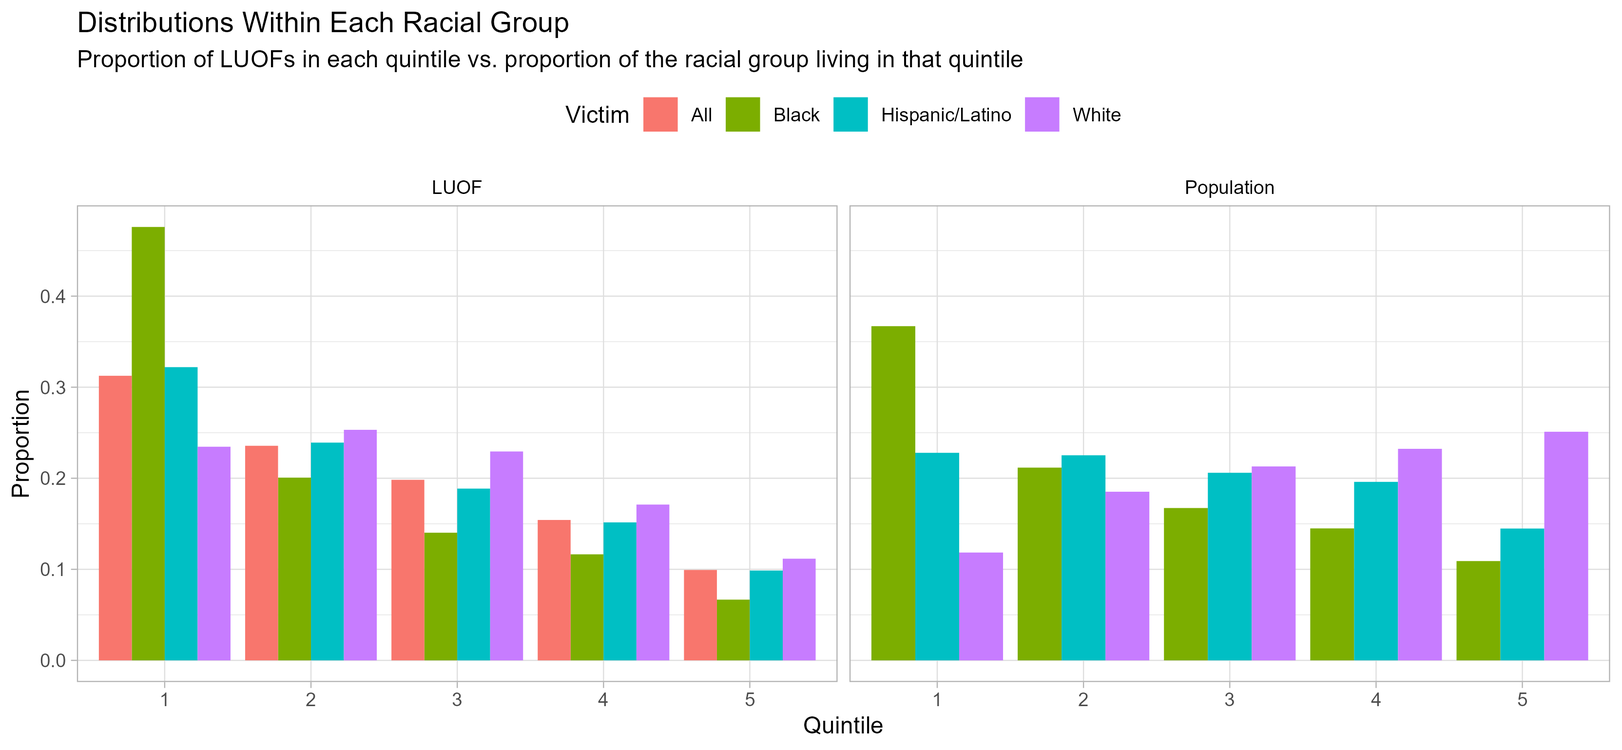
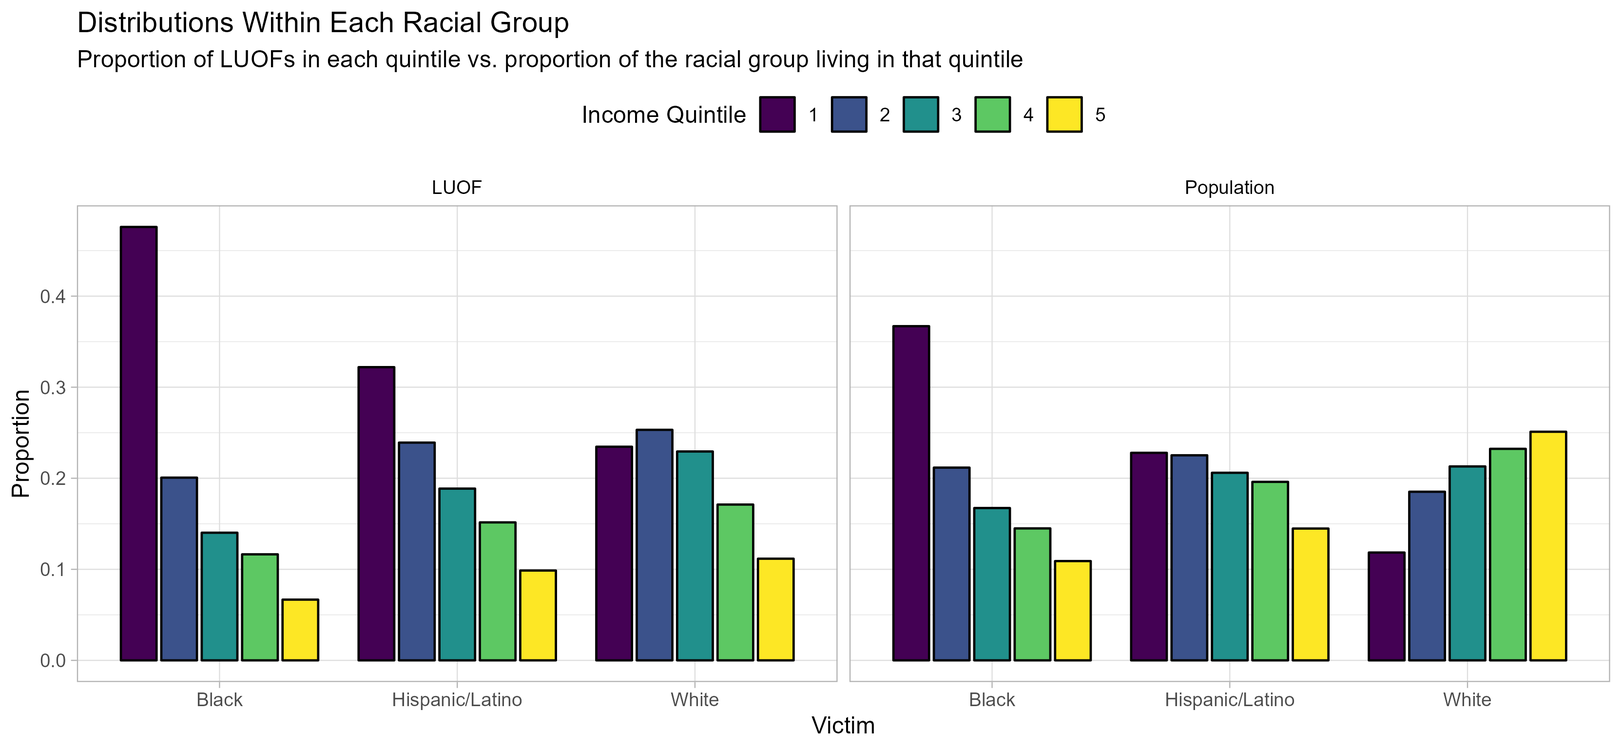
Changed color and swapped x-axis/legend of victim race/quintile interaction plot.

diff --git a/ps_honors_thesis_abbreviated.tex b/ps_honors_thesis_abbreviated.tex
@@ -139,7 +139,7 @@ This study examines the relationship between race, class, and police use of leth
 \end{abstract}
 
 \clearpage
-\setstretch{1.25}
+\setstretch{1.5}
 % Add table of contents
 \hypertarget{toc}{}
 \tableofcontents
@@ -177,7 +177,7 @@ This study examines the relationship between race, class, and police use of leth
 
 \section{INTRODUCTION}
 
-On August 8, 2015, US senator and Democratic presidential candidate Bernie Sanders spoke at ``Social Security Works", an event that commemorated the 50\textsuperscript{th} and 80\textsuperscript{th} anniversary of the enactment of Social Security and Medicare, respectively (\cite{wilsonProtestersShutBernie2015}). But before Senator Sanders could speak, several Black Lives Matter activists interrupted because they felt Sanders was inadequately responding to issues of racial justice, particularly as it pertains to the killings of black Americans by law enforcement. One activist, Marissa Johnson, in an MSNBC interview, elaborated that the interruption aimed to “put pressure on people who claim that they care about black lives” (\cite{hallBernieSandersBlack2015}). Specifically, regarding Sanders, she averred: “If you look at Bernie Sanders’s platform, you look at what he said on racial equality, he’s basically a class reductionist. He’s never really had a strong analysis that there is racism and white supremacy that is separate than [\textit{sic}] the economic things that everyone experiences. So, we want to continue to push him on that” (\cite{hallBernieSandersBlack2015}). The issue for Johnson and the other activists who stormed the stage that day was that, while Sanders had a fairly expansive economic justice platform, those policies were an inadequate response to issues of racism and white supremacy. Hence, from this perspective, his politics were class reductionist.
+On August 8, 2015, US senator and Democratic presidential candidate Bernie Sanders spoke at "Social Security Works", an event that commemorated the 50\textsuperscript{th} and 80\textsuperscript{th} anniversary of the enactment of Social Security and Medicare, respectively (\cite{wilsonProtestersShutBernie2015}). But before Senator Sanders could speak, several Black Lives Matter activists interrupted because they felt Sanders was inadequately responding to issues of racial justice, particularly as it pertains to the killings of black Americans by law enforcement. One activist, Marissa Johnson, in an MSNBC interview, elaborated that the interruption aimed to “put pressure on people who claim that they care about black lives” (\cite{hallBernieSandersBlack2015}). Specifically, regarding Sanders, she averred: “If you look at Bernie Sanders’s platform, you look at what he said on racial equality, he’s basically a class reductionist. He’s never really had a strong analysis that there is racism and white supremacy that is separate than [\textit{sic}] the economic things that everyone experiences. So, we want to continue to push him on that” (\cite{hallBernieSandersBlack2015}). The issue for Johnson and the other activists who stormed the stage that day was that, while Sanders had a fairly expansive economic justice platform, those policies were an inadequate response to issues of racism and white supremacy. Hence, from this perspective, his politics were class reductionist.
 
 Earlier that year, in an interview with CNN’s Wolf Blitzer, Senator Sanders was asked about his thoughts on the unrest in Baltimore after the murder of Freddie Gray by law enforcement. Sanders emphasized that “too many mostly black suspects have been treated terribly and, in some cases, murdered,” and that “police officers have got to be held accountable for their actions,” but also that economic factors were related to the killing of Freddie Gray:
 
@@ -284,7 +284,9 @@ A list of lethal uses of force was downloaded from the Fatal Encounters website.
 
 \subsection{Rates by Race and Ethnicity}
 
-As is well understood, majority-black and Latino neighborhoods experience higher rates of LUOF than majority-white neighborhoods. Data collected for this study confirm this. Indeed, majority-black neighborhoods experience a rate nearly twice that of majority-white neighborhoods. Majority-Hispanic/Latino neighborhoods experience a rate 1.75 times greater.
+As is well understood, majority-black and Latino neighborhoods experience higher rates of LUOF than majority-white neighborhoods. Data collected for this study confirm this. Indeed, majority-black neighborhoods experience a rate nearly twice that of majority-white neighborhoods. Majority-Hispanic/Latino neighborhoods experience a rate 1.75 times greater than majority-white neighborhoods (\autoref{fig:race_ethnicity}).
+
+One possible explanation for the racial disparities is that blacks and Latinos are policed heavily, regardless of how well-off the tract is. A good amount of literature would seem to support this. Many studies have found discriminatory practices within police departments, and there have been many documented incidents of black professionals being harassed by law enforcement, often for rather arbitrary violations. From that perspective, discriminatory practices may largely account for the racial disparities that affect black Americans regardless of their class position. 
 
 \begin{figure}[H]
   \centering % width=\linewidth, height=0.4\textheight
@@ -294,9 +296,7 @@ As is well understood, majority-black and Latino neighborhoods experience higher
   \label{fig:race_ethnicity}
 \end{figure}
 
-\noindent{}than majority-white neighborhoods (\autoref{fig:race_ethnicity}).
-
-One possible explanation for the racial disparities is that blacks and Latinos are policed heavily, regardless of how well-off the tract is. A good amount of literature would seem to support this. Many studies have found discriminatory practices within police departments, and there have been many documented incidents of black professionals being harassed by law enforcement, often for rather arbitrary violations. From that perspective, discriminatory practices may largely account for the racial disparities that affect black Americans regardless of their class position. Another possible explanation for these racial disproportions is that blacks and Latinos also disproportionately live in lower-income neighborhoods that are more heavily policed, for reasons discussed earlier. From this perspective, the racial disparities may largely be a function of class position and the way poor and working-class neighborhoods are policed. Of course, these explanations are not mutually exclusive; racial discrimination probably does play some part in generating these racial disparities, while the way the poor are policed could also contribute to the incidence of LUOF. However, it is worth examining the variation within majority one-race census tracts by household income quintiles to see how much of the disparity disappears once household income is introduced into the analysis.
+Another possible explanation for these racial disproportions is that blacks and Latinos also disproportionately live in lower-income neighborhoods that are more heavily policed, for reasons discussed earlier. From this perspective, the racial disparities may largely be a function of class position and the way poor and working-class neighborhoods are policed. Of course, these explanations are not mutually exclusive; racial discrimination probably does play some part in generating these racial disparities, while the way the poor are policed could also contribute to the incidence of LUOF. However, it is worth examining the variation within majority one-race census tracts by household income quintiles to see how much of the disparity disappears once household income is introduced into the analysis.
 
 \subsection{Median Household Income}
 
@@ -312,7 +312,10 @@ The American Community Survey (ACS) provides median household income values for 
 
 \subsection{Majority One Race}
 
-What, then, does the analysis look like when both race and income are introduced as variables? An initial look at the bar plots by majority-one-race in a census tract and income quintiles offers some useful insights. The plots from earlier are provided again, this time side-by-side on the same scale for easier cross-comparisons. Without looking at their interactions, we can see that the fourth and fifth-quintile census tracts experience a lower rate of LUOFs than any of the racial or ethnic groups. At the same time, both majority-black and majority-Latino census tracts experienced higher rates than all income quintiles except the first or lowest income quintile.
+What, then, does the analysis look like when both race and income are introduced as
+\noindent{}variables? An initial look at the bar plots by majority-one-race in a census tract and income quintiles offers some useful insights. The plots from earlier are provided again, this time side-by-side on the same scale for easier cross-comparisons. Without looking at their interactions, we can see that the fourth and fifth-quintile census tracts experience a lower rate of LUOFs than any of the racial or ethnic groups. At the same time, both majority-black and majority-Latino census tracts experienced higher rates than all income quintiles except the first or lowest income quintile.
+
+However, this analysis is inadequate because it does not tell us about the interactions between the variables. In analyzing their interactions, one finds that the general trend of the lowest-income quintiles experiencing the highest rates of LUOFs holds. A bar plot (\autoref{fig:majority_income_interactions}) showing the variation within the racial and ethnic groups indicates that there is substantial variation by income quintile within the racial and ethnic groups. For all racial and ethnic groups, the lowest income quintile had the highest LUOF rate. The difference in the rate between the first and second quintile is substantial for the majority black and Latino census tracts. Majority Hispanic/Latino tracts had the highest rate in the second and third income quintiles. As noted earlier, both the majority-white, and majority-black census tracts experienced the lowest rates of police LUOF in the highest income quintiles.
 
 \begin{figure}[H]
   \centering % width=\linewidth, height=0.4\textheight
@@ -321,8 +324,6 @@ What, then, does the analysis look like when both race and income are introduced
   \caption[Income and Race]{Income and Race}
   \label{fig:combined}
 \end{figure}
-
-However, this analysis is inadequate because it does not tell us about the interactions between the variables. In analyzing their interactions, one finds that the general trend of the lowest-income quintiles experiencing the highest rates of LUOFs holds. A bar plot (\autoref{fig:majority_income_interactions}) showing the variation within the racial and ethnic groups indicates that there is substantial variation by income quintile within the racial and ethnic groups. For all racial and ethnic groups, the lowest income quintile had the highest LUOF rate. The difference in the rate between the first and second quintile is substantial for the majority black and Latino census tracts. Majority Hispanic/Latino tracts had the highest rate in the second and third income quintiles. As noted earlier, both the majority-white, and majority-black census tracts experienced the lowest rates of police LUOF in the highest income quintiles.
 
 \begin{figure}[H]
   \centering % width=\linewidth, height=0.4\textheight
@@ -343,14 +344,6 @@ Because categorizing tracts into majority-one-race tracts sets an arbitrary thre
 
 The regression results show a negative relationship between income and the probability that a tract experienced at least one LUOF during the period (\autoref{tab:income_logit}). A plot of the predicted probabilities indicates a strong curvilinear relationship, with the probability being most pronounced in tracts with incomes of \$50 thousand or less, and the curve flattens somewhat around \$200 thousand. Exponentiating the coefficient results in 0.8758 ($e^{-0.13265}$~=~0.8758), meaning that for every ten thousand dollars in median household income, the odds of a census tract experiencing at least one LUOF declines by 12.42 percent (1~--~0.8758~=~0.1242).
 
-\begin{figure}[H]
-  \centering % width=\linewidth, height=\textheight
-  \includegraphics[width=\linewidth]{images/LUOF_logit_income_only}
-  \captionsetup{justification=centering, singlelinecheck=false, margin=2cm}
-  \caption[Predicted Probability of a LUOF (Income Only)]{Predicted Probability of a LUOF (Income Only).}
-  \label{fig:logit_income_plot}
-\end{figure}
-
 \begin{table}[ht]
 \centering
 \begin{tabular}{lcccccc}
@@ -364,6 +357,14 @@ Intercept & -1.636736 & 0.03197 & -51.19 & $<$0.0001 & -1.6994, -1.5741 \\
 \caption{Logistic Regression Results for Median Household Income}
 \label{tab:income_logit}
 \end{table}
+\begin{figure}[H]
+  \centering % width=\linewidth, height=\textheight
+  \includegraphics[width=\linewidth]{images/LUOF_logit_income_only}
+  \captionsetup{justification=centering, singlelinecheck=false, margin=2cm}
+  \caption[Predicted Probability of a LUOF (Income Only)]{Predicted Probability of a LUOF (Income Only).}
+  \label{fig:logit_income_plot}
+\end{figure}
+
 
 \subsection{Bivariate Logistic Regressions: Race/Ethnicity}\
 
@@ -418,8 +419,6 @@ logit(LUOF) = \beta_0 + \beta_1 \text{Income10k}_i + \beta_2 \text{Proportion}_i
 
 \noindent{}where \texttt{i} is a census tract; \texttt{Income10k} is the median household income in tens of thousands of dollars in the \texttt{i}$^\text{th}$ census tract; and \texttt{Proportion} is the proportion of the race or ethnicity living in the \texttt{i}$^\text{th}$ census tract. Again, three separate regressions were run, one for each racial/ethnic group. A plot of the average marginal effects of the racial proportion on the probability of the tract having at least one \acrshort{luof} (\autoref{fig:ame_race_by_income}) was constructed. The average margin effects indicate how much the proportion of a particular race or ethnicity in the census tract contributes to the odds of the tract having at least one \acrshort{luof}, all else being equal.
 
-\autoref{fig:ame_race_by_income} shows that the \gls{ame} of the racial proportion on the probability of a \acrshort{luof} was greatest for Latinos and non-whites in general, especially in the lowest income tracts. Somewhat surprisingly, the lowest income Latino tracts did not experience the greatest \acrshort{ame} from their higher Latino composition; rather, it is the tracts between \$50 thousand and \$100 thousand that experienced the greatest increase in the probability of \acrshort{luof} as the proportion of Latinos increased. Also, in contrast to folk wisdom, the difference in \acrshort{luof} probability between a tract with zero percent black and 100 percent black composition only appeared in the lower-income black census tracts. In other words, high-income tracts with larger proportions of blacks were no more likely to experience at least one \acrshort{luof} than high-income tracts with small proportions of blacks.
-
 \begin{figure}[H]
   \centering
   \includegraphics[width=\linewidth]{images/ame_race_by_income}
@@ -427,11 +426,14 @@ logit(LUOF) = \beta_0 + \beta_1 \text{Income10k}_i + \beta_2 \text{Proportion}_i
   \caption{Average Marginal Effects of Racial Composition}
   \label{fig:ame_race_by_income}
 \end{figure}
+\autoref{fig:ame_race_by_income} shows that the \gls{ame} of the racial proportion on the probability of a \acrshort{luof} was greatest for Latinos and non-whites in general, especially in the lowest income tracts. Somewhat surprisingly, the lowest income Latino tracts did not experience the greatest \acrshort{ame} from their higher Latino composition; rather, it is the tracts between \$50 thousand and \$100 thousand that experienced the greatest increase in the probability of \acrshort{luof} as the proportion of Latinos increased. Also, in contrast to folk wisdom, the difference in \acrshort{luof} probability between a tract with zero percent black and 100 percent black composition only appeared in the lower-income black census tracts. In other words, high-income tracts with larger proportions of blacks were no more likely to experience at least one \acrshort{luof} than high-income tracts with small proportions of blacks.
+
 
 \subsection{Race of Victim}\
 
-For robustness, an analysis by race of the victim was also conducted. Using the Fatal Encounters dataset, I constructed a frequency table of the number of LUOFs of victims by race. Contributors to Fatal Encounters imputed a small percentage of these observations ($<$ 9\% of unknown race/ethnicity was imputed). The distribution across racial groups in these six years shows that nearly half of those killed by law enforcement are white; slightly more than 25 percent are black; and approximately 18 percent of those killed by law enforcement are Latino/Hispanic (\autoref{fig:race_proportion_of_total_bar}). There is also a disparity between whites and blacks. Blacks comprise 25 percent of those killed by law enforcement, while their incidence in the broader population is only about 13 percent. On the other hand, whites are killed by law enforcement at a rate slightly less than their incidence in the broader population. At the same time, it is worth a closer look at how the LUOF victims are distributed across tract income quintiles within each racial group.
+For robustness, an analysis by race of the victim was also conducted. Using the Fatal Encounters dataset, I constructed a frequency table of the number of LUOFs of victims by race. Contributors to Fatal Encounters imputed a small percentage of these observations ($<$ 9\% of unknown race/ethnicity were imputed). The distribution across racial groups in these six years shows that nearly half of those killed by law enforcement are white; slightly more than 25 percent are black; and approximately 18 percent of those killed by law enforcement are Latino/Hispanic (\autoref{fig:race_proportion_of_total_bar}). There is also a disparity between whites and blacks. Blacks comprise 25 percent of those killed by law enforcement, while their incidence in the broader population is only about 13 percent. On the other hand, whites are killed by law enforcement at a rate slightly less than their incidence in the broader population. At the same time, it is worth a closer look at how the LUOF victims are distributed across tract income quintiles within each racial group.
 
+Each racial group is distributed differently across income quintiles. For example, blacks and Latinos live disproportionately in lower-income tracts, and whites live disproportionately in higher-income tracts. A count of all persons of each race living in each census tract income quintile was performed. A plot showing the distribution of each racial group (\autoref{fig:race_proportion_of_total_bar}) shows that blacks and Latinos generally live in lower-income tracts than whites. 
 \begin{figure}[H]
   \centering
   \includegraphics[width=\linewidth]{images/race_proportion_of_total_bar}
@@ -439,8 +441,8 @@ For robustness, an analysis by race of the victim was also conducted. Using the 
   \caption{LUOF Count by Race/Ethnicity}
   \label{fig:race_proportion_of_total_bar}
 \end{figure}
+\noindent{}For example, 37 percent of blacks live in the lowest income quintile, while only 12 percent of whites live in that same quintile. Latinos tend to live in lower-income census tracts than whites, but the disparity is not as sharp: 23 percent of Latinos live in the lowest census tract income quintile.
 
-Each racial group is distributed differently across income quintiles. For example, blacks and Latinos live disproportionately in lower-income tracts, and whites live disproportionately in higher-income tracts. A count of all persons of each race living in each census tract income quintile was performed. A plot showing the distribution of each racial group (\autoref{fig:race_proportion_of_total_bar}) shows that blacks and Latinos generally live in lower-income tracts than whites. For example, 37 percent of blacks live in the lowest income quintile, while only 12 percent of whites live in that same quintile. Latinos tend to live in lower-income census tracts than whites, but the disparity is not as sharp: 23 percent of Latinos live in the lowest census tract income quintile.
 
 \begin{figure}[H]
   \centering
@@ -454,6 +456,8 @@ Each racial group is distributed differently across income quintiles. For exampl
 
 Comparisons between the population distribution of each race in income quintiles and the distribution of LUOFs across income quintiles reveal an interesting disparity. For example, while 36.7 percent of blacks live in the lowest income quintile, 47.6 percent of blacks killed by law enforcement were killed in tracts in the lowest income quintile. The same disproportionate trend holds for every other race/ethnicity: 22.8 percent of Latinos live in the lowest income quintile tracts, but 32.2 percent of Latinos killed by law enforcement were killed in the lowest income quintile tracts, and 11.8 percent of whites live in tracts in the lowest income quintile, but 23.5 percent of whites killed by law enforcement were killed in the lowest income quintile tracts.
 
+\autoref{fig:inc_and_race_victim_shape_bar} places these data side-by-side, providing a visualization of how the two
+distributions in \autoref{fig:total_pop_quintiles_race} and \autoref{fig:inc_and_race_victim} differ. If the data bars were exactly the same across each row, it would indicate that the distribution of the racial group population across income quintiles is the same as the distribution of LUOFs within each group. But this is not the case. Moreover, Blacks and Latinos experience the greatest share of LUOFs in the lowest income quintile, greater than their incidence in that quintile. As noted earlier, there is an anomaly; slightly more whites— 25.3 percent—were killed in the second income quintile tracts than in the lowest income quintile—23.5 percent. Notwithstanding this anomaly, there is still a striking disparity between the proportion of whites living in the lowest-income tracts and the proportion of whites killed in those tracts.
 \begin{figure}[H]
   \centering
   \includegraphics[width=\linewidth]{images/inc_and_race_victim}
@@ -461,15 +465,13 @@ Comparisons between the population distribution of each race in income quintiles
   \caption{Proportion of Each Race Killed in Each Income Quintile}
   \label{fig:inc_and_race_victim}
 \end{figure}
-\autoref{fig:inc_and_race_victim_shape_bar} places these data side-by-side, providing a visualization of how the two
-distributions in \autoref{fig:total_pop_quintiles_race} and \autoref{fig:inc_and_race_victim} differ. If the data bars were exactly the same across each row, it would indicate that the distribution of the racial group population across income quintiles is the same as the distribution of LUOFs within each group. But this is not the case. Moreover, Blacks and Latinos experience the greatest share of LUOFs in the lowest income quintile, greater than their incidence in that quintile. As noted earlier, there is an anomaly; slightly more whites— 25.3 percent—were killed in the second income quintile tracts than in the lowest income quintile—23.5 percent. Notwithstanding this anomaly, there is still a striking disparity between the proportion of whites living in the lowest-income tracts and the proportion of whites killed in those tracts.
 
 \begin{figure}[H]
   \centering
   \includegraphics[width=\linewidth]{images/inc_and_race_victim_shape_bar}
   \captionsetup{justification=centering, singlelinecheck=false, margin=2cm}
   \caption{Proportion of Race Living in Income Quintile X vs. Proportion of Race Killed in Income Quintile X}
-  \label{fig:inc_and_race_victim_shape_bar}
+  \label{fig:inc_and_race_victim_shape_bar} 
 \end{figure}
 
 \section{DISCUSSION}
@@ -482,23 +484,23 @@ The reasons for this are twofold. Policing practices and the corresponding outco
 
 The limitation of this study is that it relied solely on observational data that were not well-suited for causal inference. Though there is a strong association between economic factors, such as income, and the incidence of police killings, it is difficult to rule out other factors that could be producing the outcome instead. It is always possible that other non-economic factors (at least not economic in a strict sense) related to the police budget or municipal politics could be driving the incidence of police killings as much as or more than the economic deprivation of a neighborhood or region. It is also possible, though probably less likely, that the causal path is in reverse to what has been suggested in this paper, that the high LUOF rate is leading to lower neighborhood incomes and impoverishment. Future research should consider how to gain better causal leverage to analyze the relationship between police \acrshort{luof}s and economic inequality, and collecting data about the individuals killed, rather than relying only on neighborhood data, could also indicate more directly how class position of individuals and police killings are related.
 % \clearpage
-\section{APPENDIX}
+% \section{APPENDIX}
 
-\begin{figure}[H]
-  \centering % width=\linewidth, height=\textheight
-  \includegraphics[width=\linewidth]{images/modified_typologies}
-  \captionsetup{justification=centering, singlelinecheck=false, margin=2cm}
-  \caption[Modified UDP Displacement Typologies]{Modified Urban Displacement Project (UDP) Typologies.}
-  \label{fig:modified_typologies}
-\end{figure}
+% \begin{figure}[H]
+%   \centering % width=\linewidth, height=\textheight
+%   \includegraphics[width=\linewidth]{images/modified_typologies}
+%   \captionsetup{justification=centering, singlelinecheck=false, margin=2cm}
+%   \caption[Modified UDP Displacement Typologies]{Modified Urban Displacement Project (UDP) Typologies.}
+%   \label{fig:modified_typologies}
+% \end{figure}
 
-\begin{figure}%[H]
-  \centering % width=\linewidth, height=\textheight
-  \includegraphics[height=0.95\textheight]{images/typology_sheet_2018}
-  \captionsetup{justification=centering, singlelinecheck=false, margin=2cm}
-  \caption[UDP Displacement Typologies]{Original Urban Displacement Project (UDP) Typologies.}
-  \label{fig:original_udp}
-\end{figure}
+% \begin{figure}%[H]
+%   \centering % width=\linewidth, height=\textheight
+%   \includegraphics[height=0.95\textheight]{images/typology_sheet_2018}
+%   \captionsetup{justification=centering, singlelinecheck=false, margin=2cm}
+%   \caption[UDP Displacement Typologies]{Original Urban Displacement Project (UDP) Typologies.}
+%   \label{fig:original_udp}
+% \end{figure}
 
 \clearpage
 \sloppy
@@ -506,7 +508,7 @@ The limitation of this study is that it relied solely on observational data that
 
 \titleformat{\section}{\fontsize{12}{14}\bfseries\centering}{\thesection}{0.5em}{}
 % Line spacing
-\setstretch{1.25}
+\setstretch{1.5}
 \printbibliography[heading=bibintoc]
 
 \end{document}

diff --git a/ps_honors_thesis.tex b/ps_honors_thesis.tex
@@ -237,7 +237,7 @@ To test these hypotheses, tracts were categorized as majority-black, majority-wh
 
 \noindent{}where \texttt{q} is the income quintile, \texttt{LUOF\_Count} is the number of \acrshort{luof}s that occurred in that income quintile, and \texttt{Population} is the total number of persons living in that particular income quintile. Per capita rates were annualized by dividing by six (the number of years in the study) and rescaled to a rate of “per 10 million.” Lethal use of force counts were then cross-tabulated for tract groups according to their respective income quintile and majority-race status: $\texttt{LUOF\_Count}_\texttt{mq}$, where \texttt{LUOF\_Count} is the total number of lethal uses of force that occurred in tracts with income quintile \texttt{q} and with a majority-race \texttt{m}, resulting in a table:
 
-\begin{table}[h]
+\begin{table}[H]
 \centering
 \begin{tabular}{cccc} %{matrix}
 Income&Black&Latino&White\\
